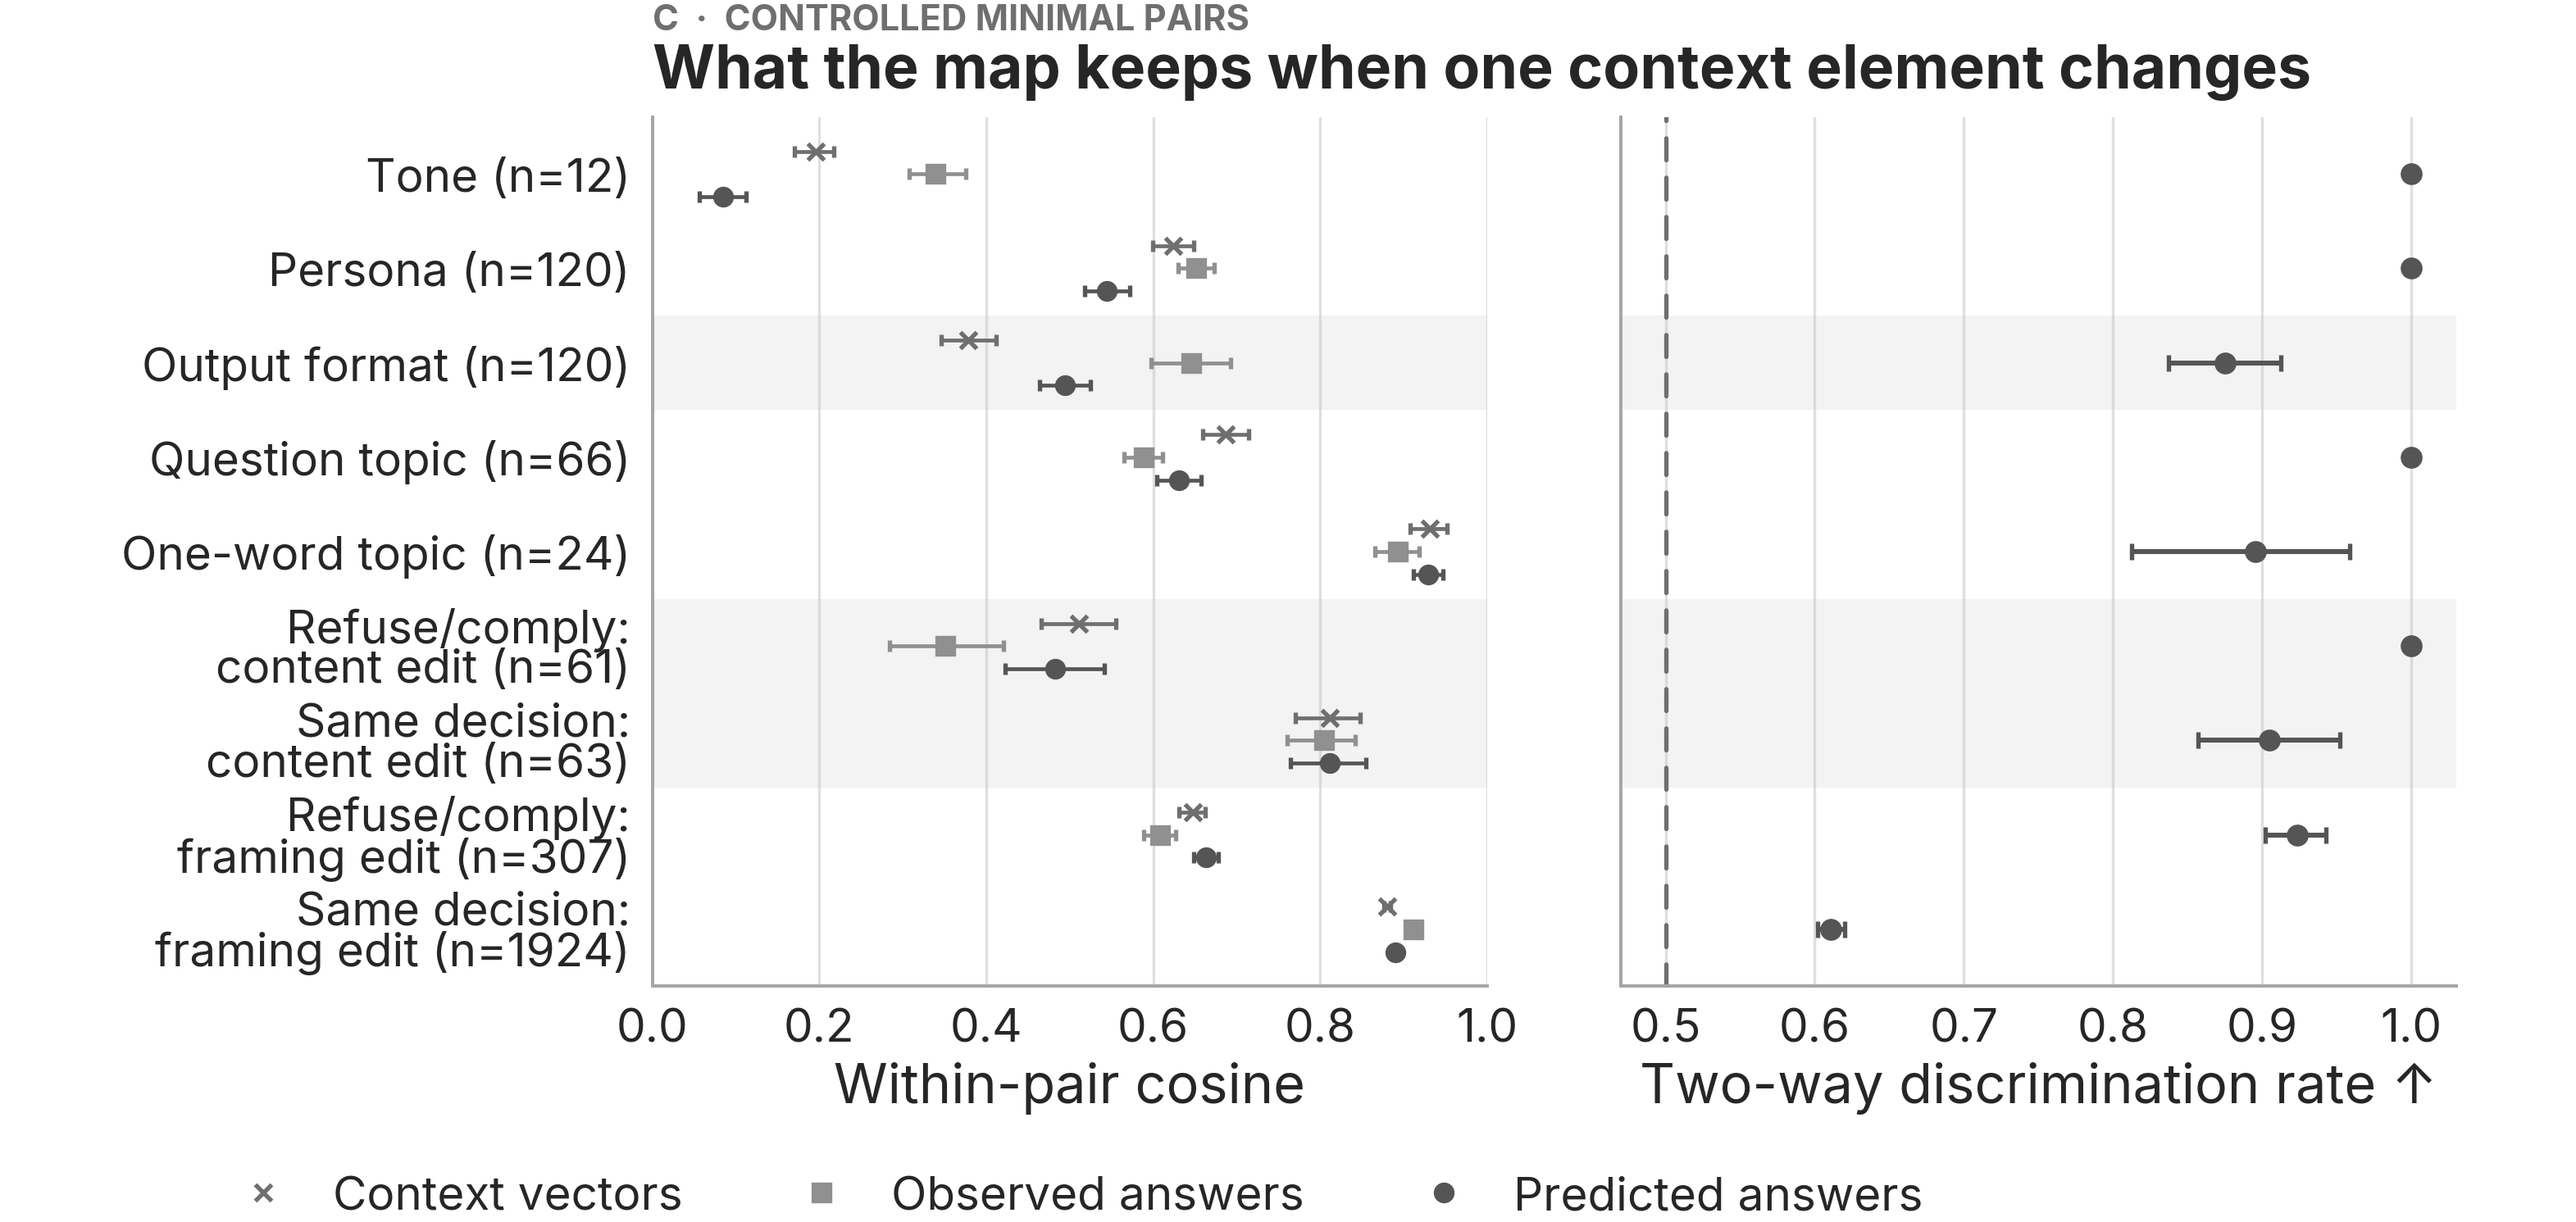
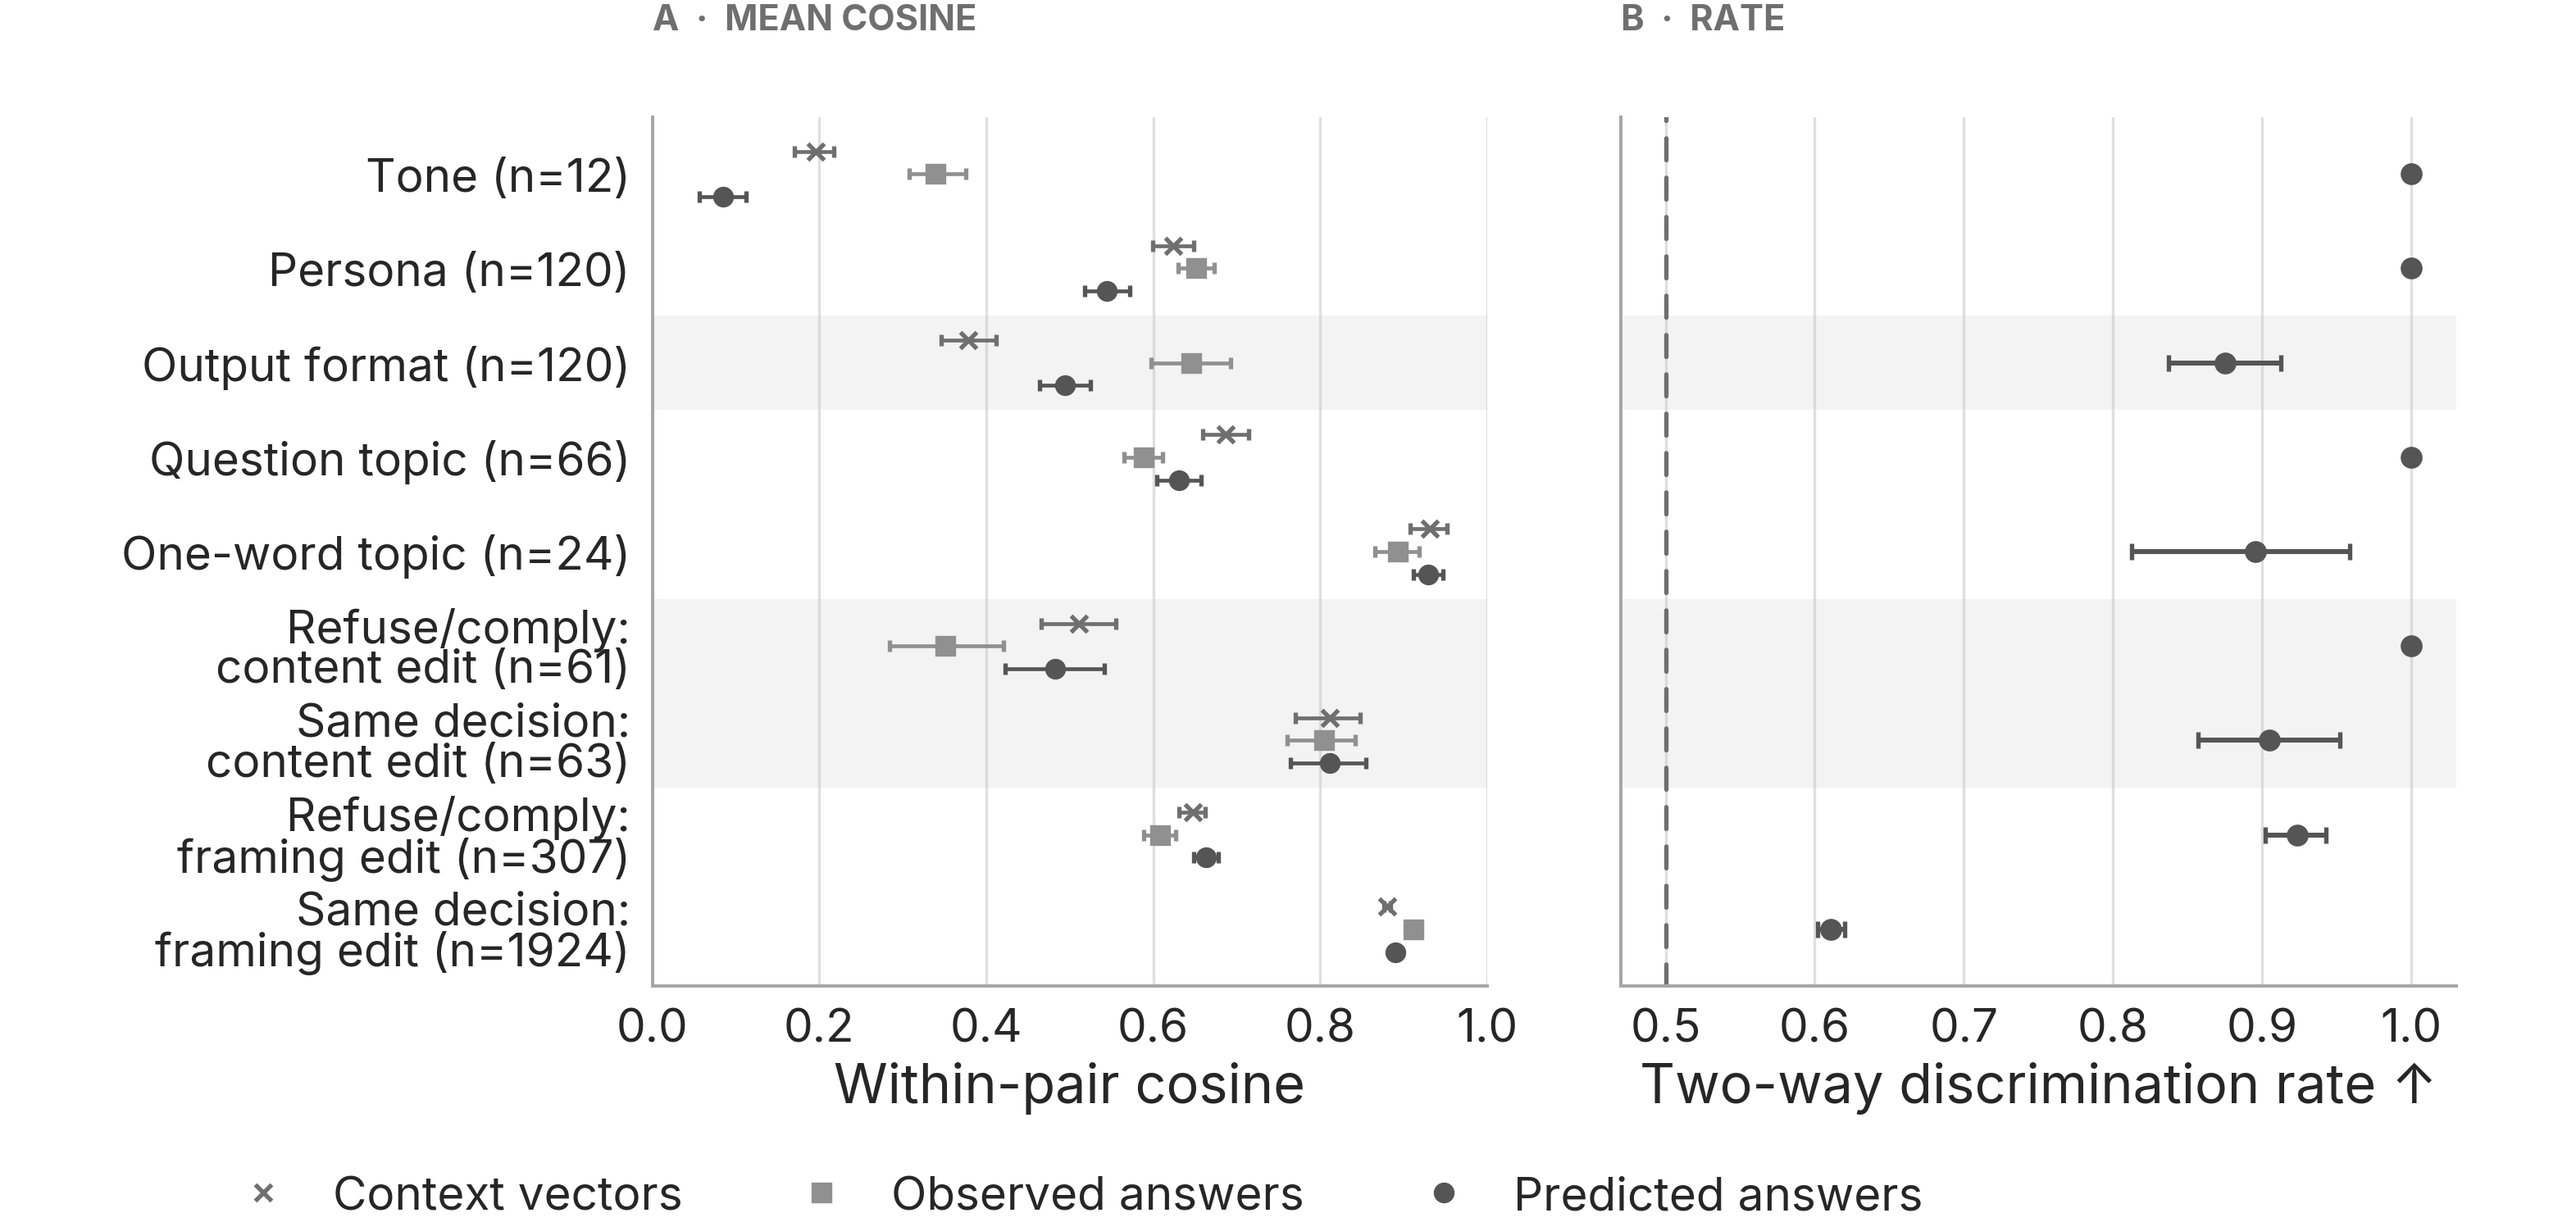
section 4.2 appendix figure: per-column A/B headers, no on-canvas title
c3_element_shifts carried a single "C" kicker and a claim-shaped title on
the canvas while its manuscript caption addresses the two columns as A and
B. The two columns now carry their own headers (A mean cosine, B rate) and
the title moves to the caption, matching the main features-and-shifts
figure. Figure regenerated; no data change.

Changed region(s): [[0.2495, 0.0, 0.9045, 0.0926]]

diff --git a/scripts/make_paper_section42_figures.py b/scripts/make_paper_section42_figures.py
@@ -1224,14 +1224,10 @@ def make_element_shifts_figure(data: dict) -> tuple[plt.Figure, float]:
         # The pair count rides the row label so nothing is placed by hand.
         ytick_labels=[L.tick_label(row["row"], row["n_pairs"]) for row in rows],
     )
-    panel_header(
-        ax_cosine,
-        "C",
-        "controlled minimal pairs",
-        "What the map keeps when one context element changes",
-        kicker_y=1.0 + _ELEMENT_KICKER_OFF_IN / plot_h_in,
-        title_y=1.0 + _ELEMENT_TITLE_OFF_IN / plot_h_in,
-    )
+    # One letter per column so the caption's \panel{A} / \panel{B} point at a
+    # drawn header; the figure carries no on-canvas title (the caption does).
+    panel_header(ax_cosine, "A", "mean cosine", kicker_y=1.0 + _ELEMENT_KICKER_OFF_IN / plot_h_in)
+    panel_header(ax_twoway, "B", "rate", kicker_y=1.0 + _ELEMENT_KICKER_OFF_IN / plot_h_in)
     _draw_row_metric_panel(
         ax_twoway,
         rows,
